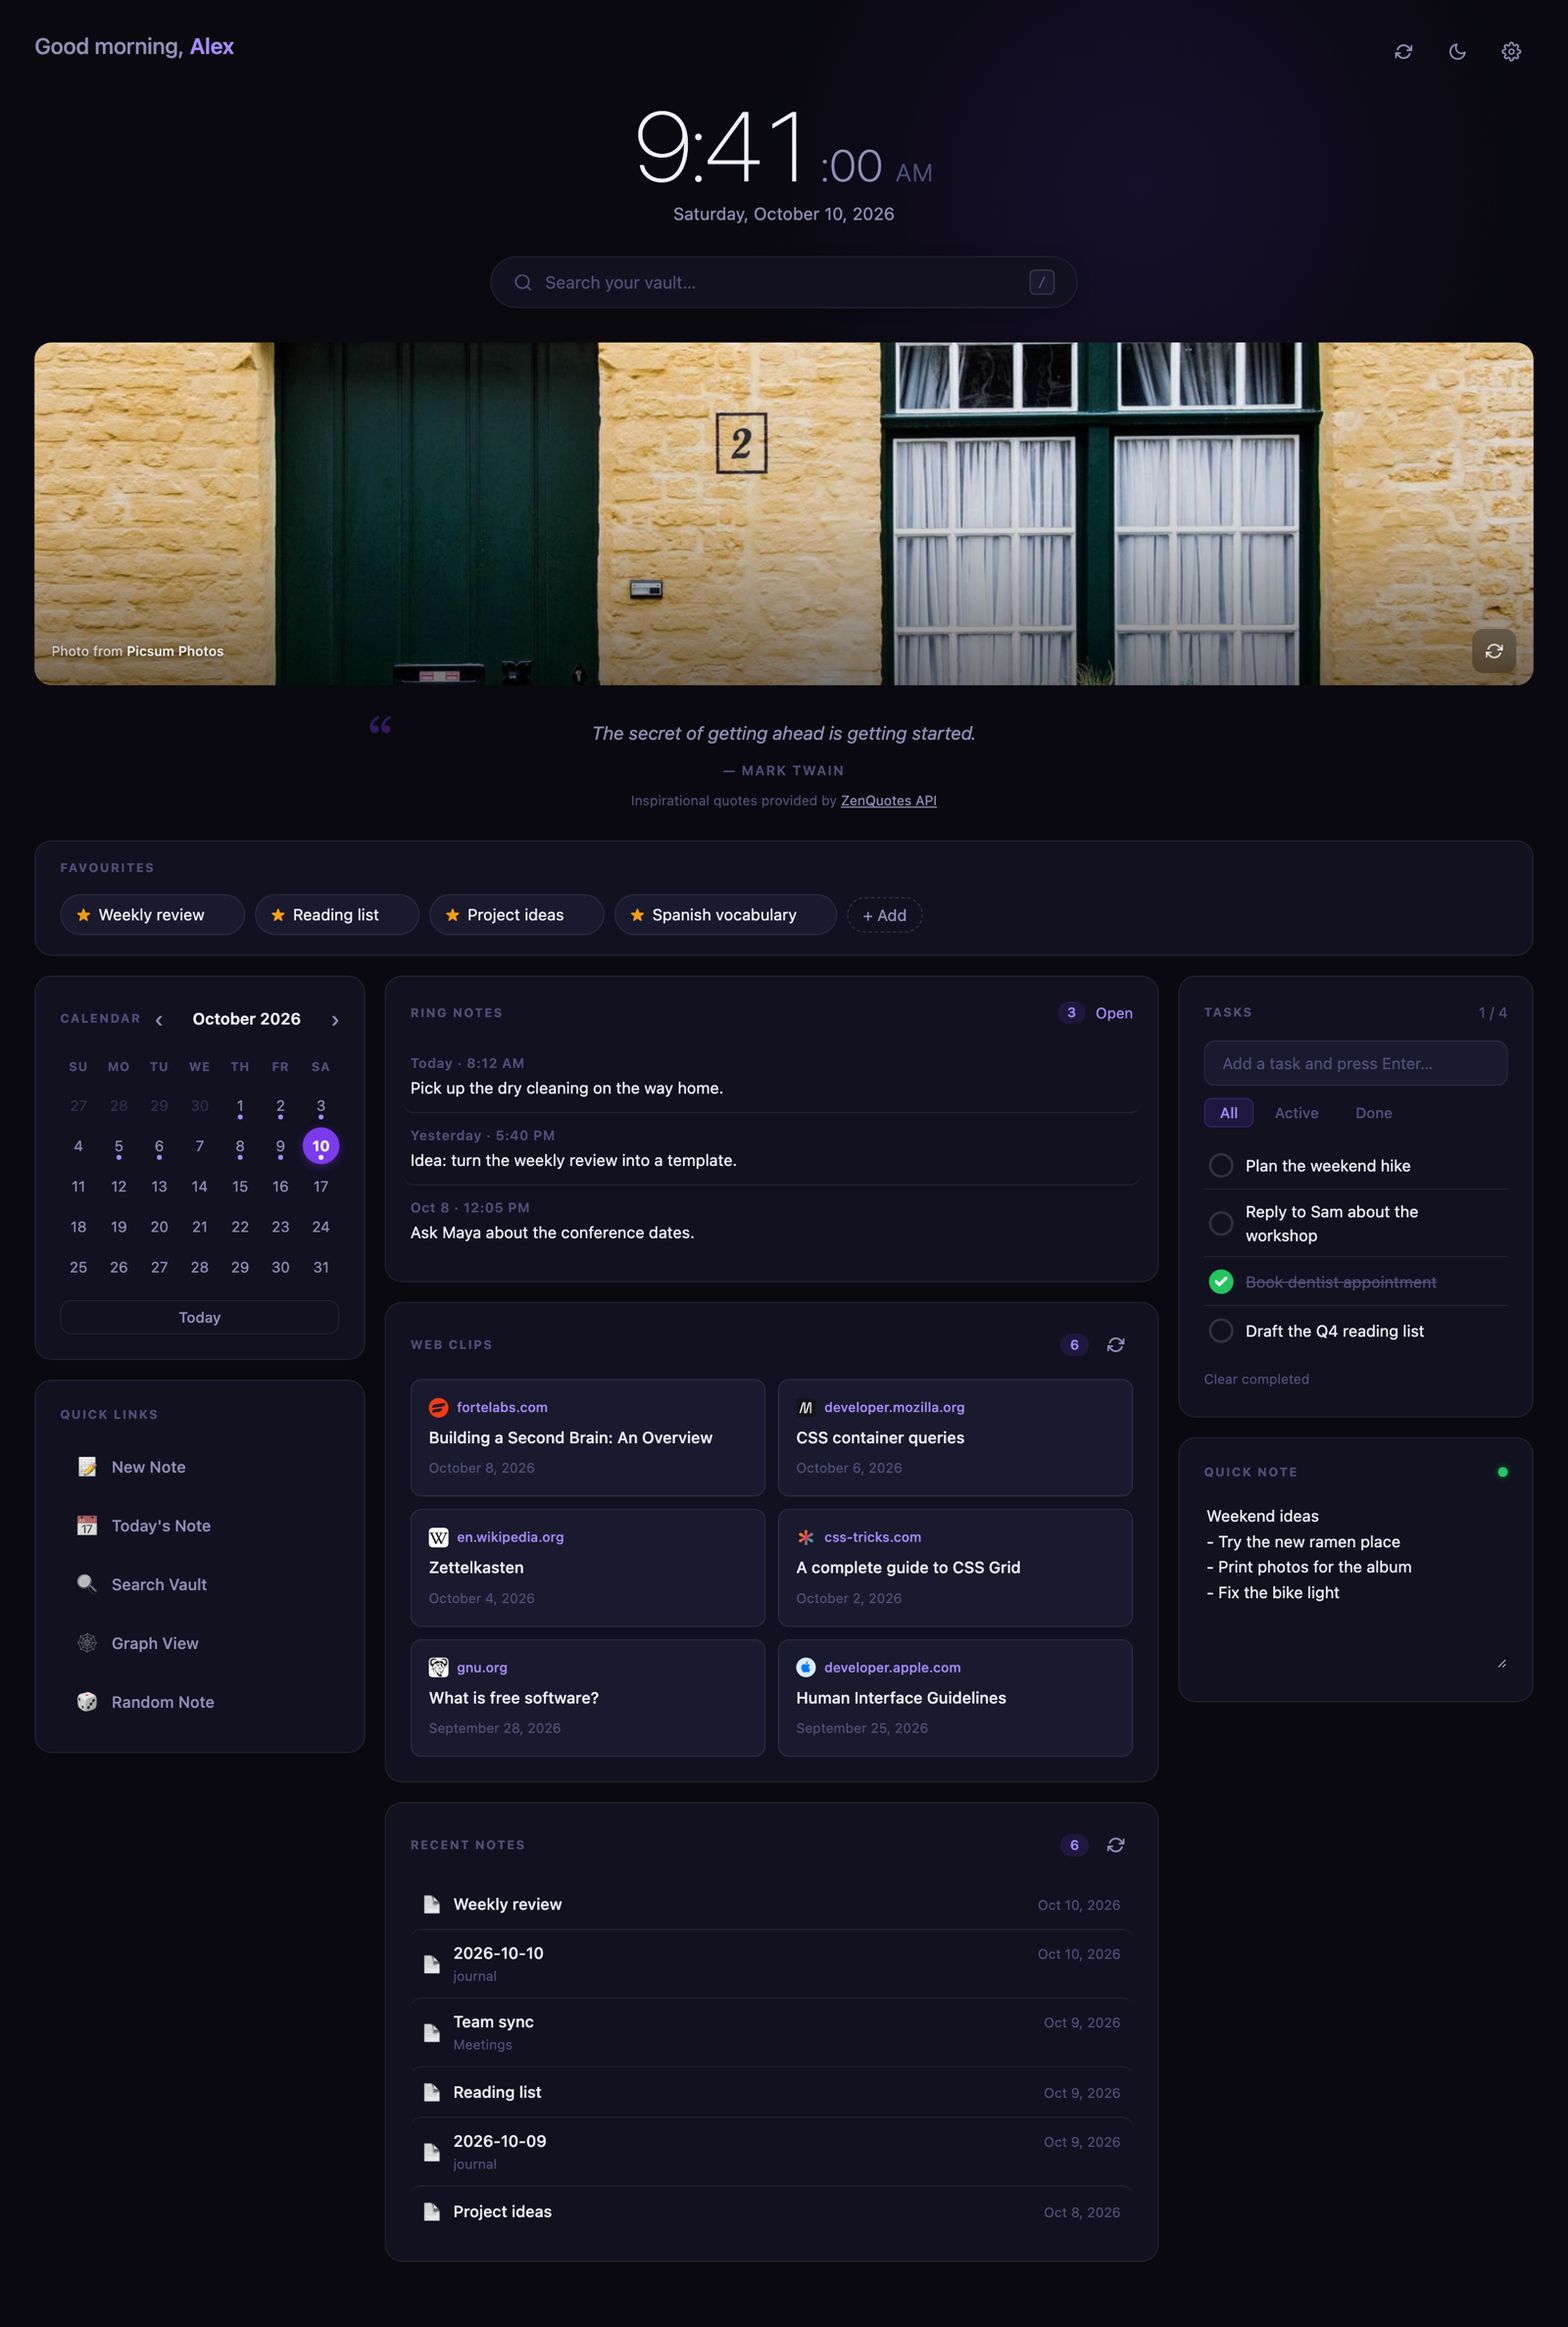
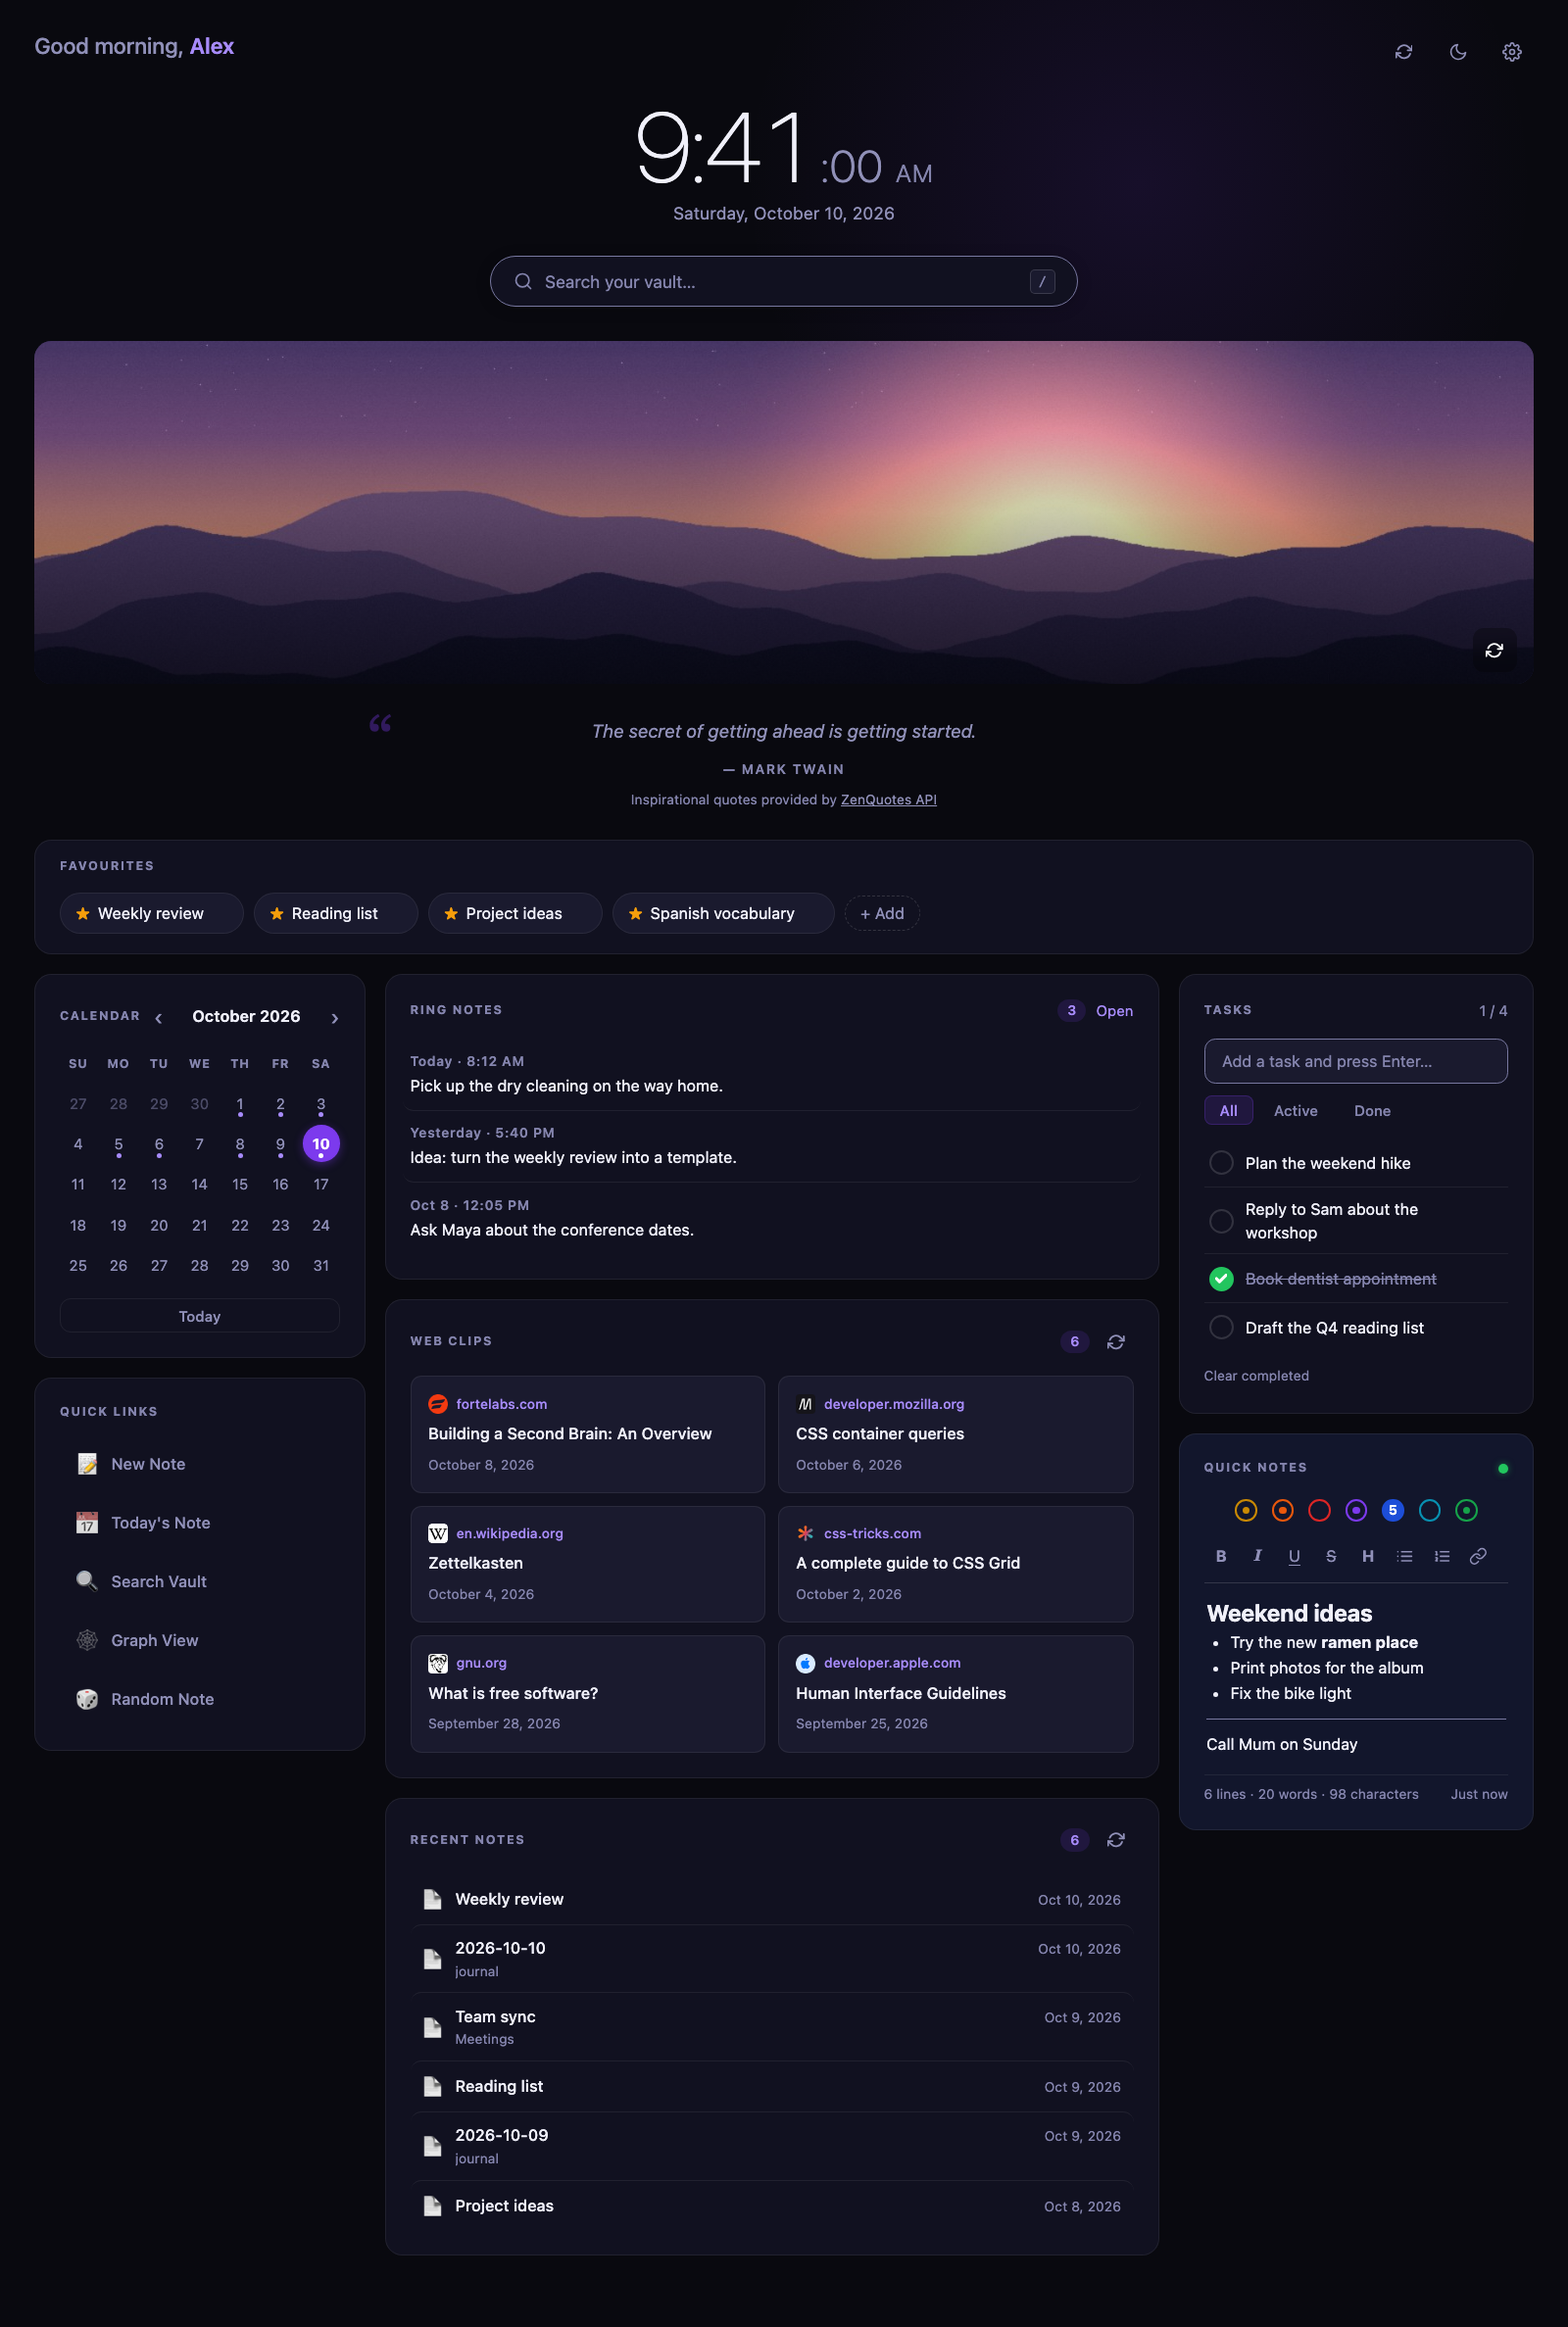
Update the README screenshots for the seven quick notes
Regenerate the dark, light and phone screenshots with the new Quick Notes card
and add a close-up of the card in both themes. The sample photo is generated.

diff --git a/README.md b/README.md
@@ -22,9 +22,13 @@ Dark and light themes (the dashboard follows Obsidian's theme by default):
 
 ![Genkan dashboard in the light theme](docs/screenshots/dashboard-light.png)
 
-On a phone it becomes a single column with tasks and the quick note first:
+On a phone it becomes a single column with tasks and the quick notes first:
 
 <img src="docs/screenshots/dashboard-phone.png" alt="Genkan on a phone" width="390">
+
+The quick notes card, in light and dark: seven notes, one per colored dot, with formatting as you type and a footer of counts and the last-saved time.
+
+![The Genkan quick notes card in the light and dark themes](docs/screenshots/quick-notes.png)
 
 The screenshots use sample data.
 
